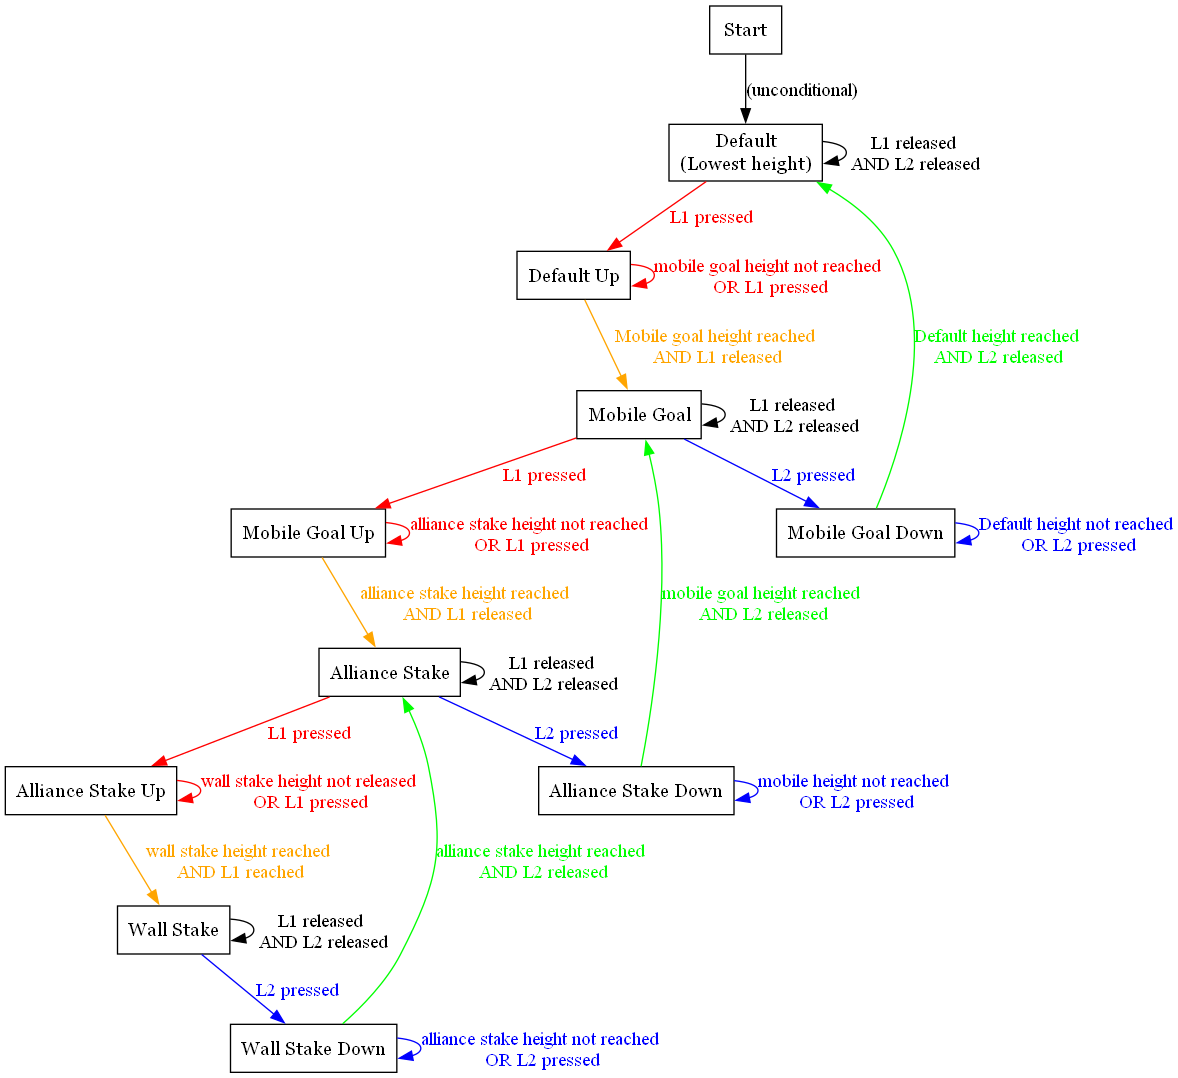
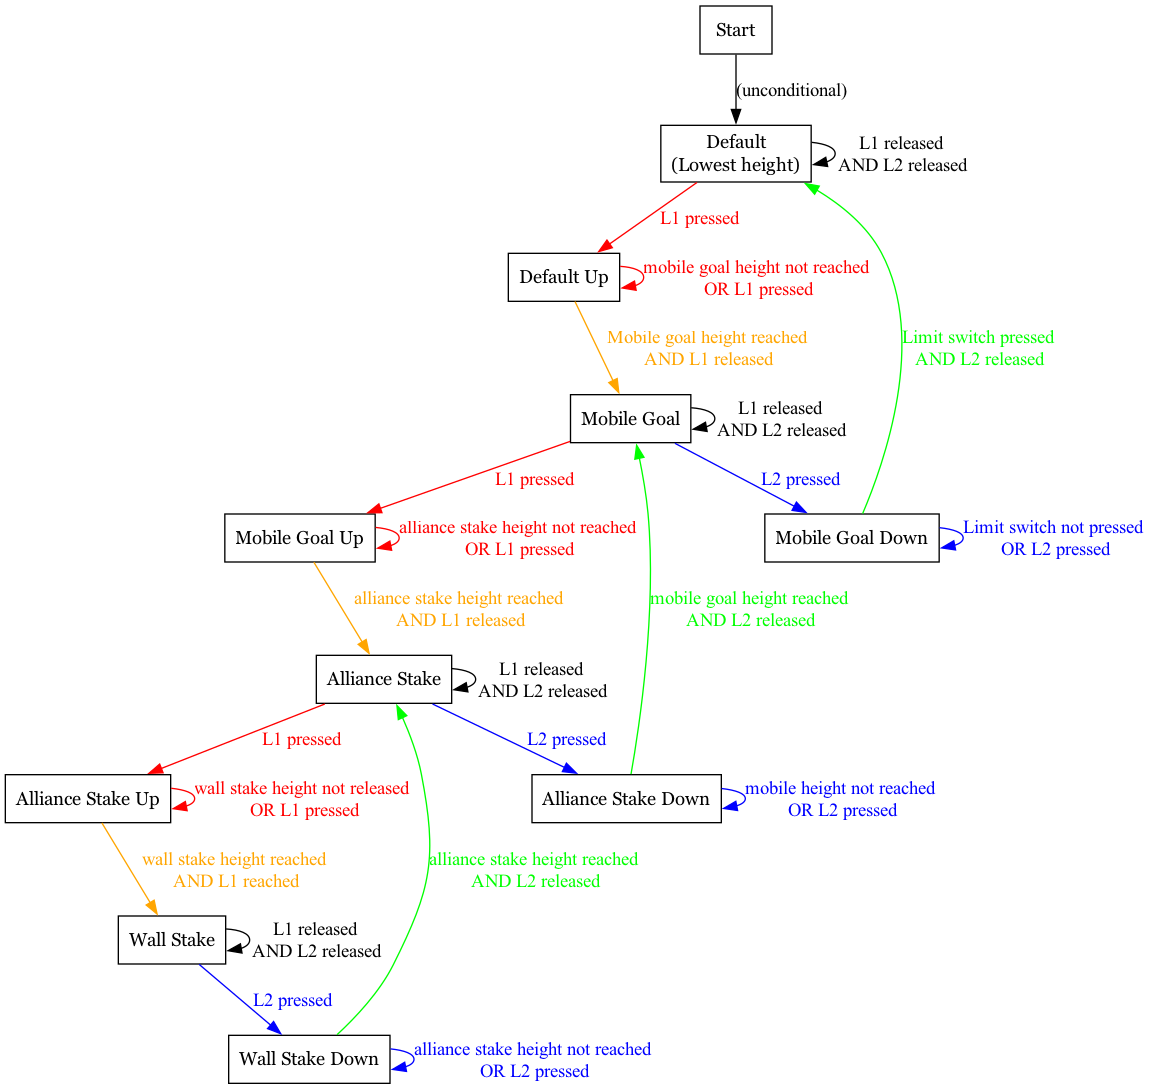
A new lift method was made to check the whether the limit is pressed.
* A new method is added to Ilift.h to check whether the limit switch is
  pressed or not.
  * This will be used as the new condition to check whether the lift has
    reached low enough.
* The state machine was updated to reflect the new condition.
    * Currently, it checks whether the lift has stopped spinning.
      However, this is no longer valid as the lift will not stop due to
      the physical obstruction being rubber bands and not metal; rubber
      bands do not fully stop the lift.

Changed region(s): [[0.0, 0.3061, 1.0, 1.0], [0.4265, 0.0, 0.9138, 0.4286], [0.3655, 0.6735, 0.8225, 0.8265]]

diff --git a/2024/prototype/intake_mechanisms/include/Ilift.h b/2024/prototype/intake_mechanisms/include/Ilift.h
@@ -82,6 +82,23 @@ class Ilift {
     virtual bool isLiftSpinning() const = 0;
 
     /**
+     * Previously, the lift stops moving when it hits a physical barrier. Rubber
+     * bands were added to overcome the slippage (the lift moved downwards
+     * because the lift motor could not hold its position). Thus, rubber bands
+     * were added to fight gravity.
+     *
+     * However, this strains the lift motor when moving down because the
+     * physical barrier stopping it rubber bands. The lift doesn't fully stop
+     * (sprongy-sprongy). Our state machines worked by checking whether the lift
+     * has stopped spinning due to obstruction.
+     *
+     * Since, this is no longer valid due to the rubber bands preventing the
+     * complete stop, we will use a limit switch to determine when the lift has
+     * reached low enough.
+     */
+    virtual bool hasLiftReachedBottom() const = 0;
+
+    /**
      * Returns the default height value constants. However, each robot will
      * have different height values for their lift. The derived classes can
      * override the default values.
